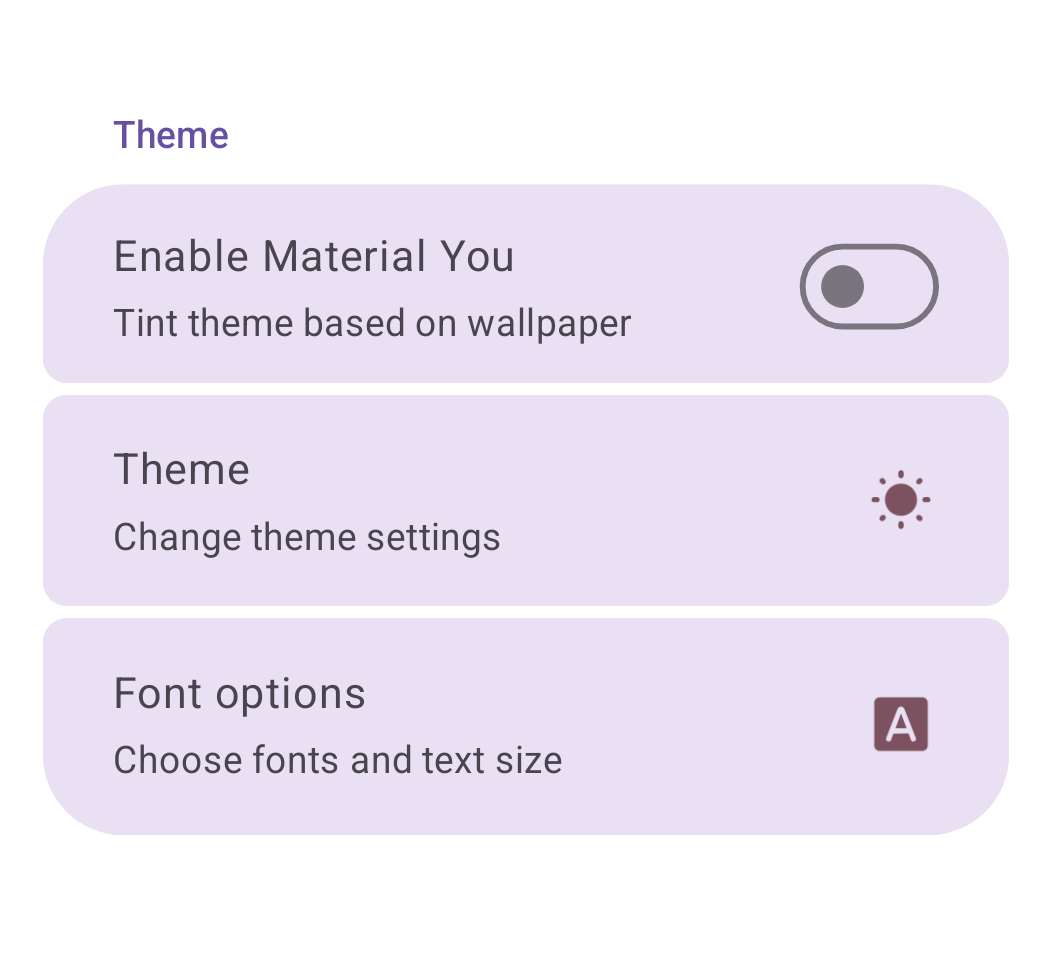
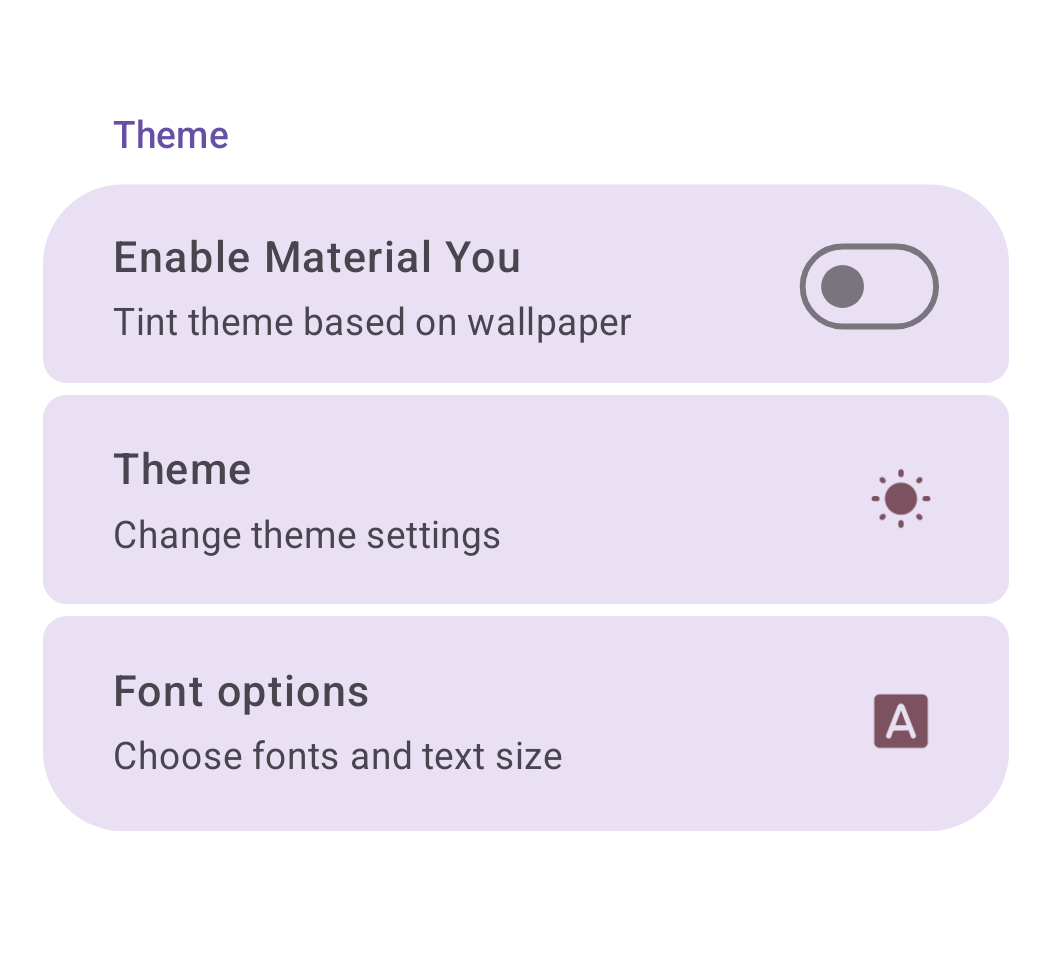
Add license, improve README

diff --git a/src/main/java/com/xaviertobin/bundledui/section/widgets/SectionTitleDescription.kt b/src/main/java/com/xaviertobin/bundledui/section/widgets/SectionTitleDescription.kt
@@ -11,6 +11,7 @@ import androidx.compose.ui.Alignment
 import androidx.compose.ui.Modifier
 import androidx.compose.ui.graphics.Color
 import androidx.compose.ui.graphics.vector.ImageVector
+import androidx.compose.ui.text.font.FontWeight
 import androidx.compose.ui.text.style.TextAlign
 import androidx.compose.ui.unit.Dp
 import androidx.compose.ui.unit.dp
@@ -103,15 +104,17 @@ fun SectionTitleDescription(
                 Text(
                     text = title,
                     style = MaterialTheme.typography.bodyLarge,
+                    fontWeight = FontWeight.Medium,
                     color = textColor,
                     textAlign = TextAlign.Start,
                     modifier = Modifier
-                        .padding(bottom = 3.dp)
+                        .padding(bottom = 2.dp)
                 )
                 description?.let {
                     Text(
                         text = description,
                         style = MaterialTheme.typography.bodyMedium,
+                        fontWeight = FontWeight.Normal,
                         color = textColor,
                         textAlign = TextAlign.Start,
                     )

diff --git a/src/main/java/com/xaviertobin/bundledui/theme/ColorScheme.kt b/src/main/java/com/xaviertobin/bundledui/theme/ColorScheme.kt
@@ -19,12 +19,12 @@ import com.xaviertobin.bundledui.color.dulled
  * Creates a usable Material3 ColorScheme with a neutral dark gray tone
  * If OLED, surface is set to black
  */
-fun defaultDarkColorScheme(isOled: Boolean = false): ColorScheme  {
+fun defaultDarkColorScheme(): ColorScheme {
     return darkColorScheme(
         primary = Color.LightGray,
         secondary = Color.LightGray,
         tertiary = Color.LightGray,
-        surface =  if (isOled) Color.Black else Color.DarkGray.blend(Color.Black, by = 0.7f),
+        surface = Color.DarkGray.blend(Color.Black, by = 0.7f),
         secondaryContainer = Color.DarkGray.blend(Color.Black, by = 0.3f),
         onPrimaryContainer = Color.White.blend(Color.LightGray, by = 0.4f),
         onSecondaryContainer = Color.White.blend(Color.LightGray, by = 0.3f),
@@ -123,10 +123,15 @@ fun colorBasedColorScheme(
     }
 }
 
+fun ColorScheme.oledify(): ColorScheme {
+    return this.copy(
+        surface = Color.Black
+    )
+}
+
 val ColorScheme.text: Color
     @Composable
     get() = MaterialTheme.colorScheme.onSurfaceVariant
-
 
 val ColorScheme.secondaryText: Color
     @Composable

diff --git a/src/main/java/com/xaviertobin/bundledui/section/widgets/SectionHeader.kt b/src/main/java/com/xaviertobin/bundledui/section/widgets/SectionHeader.kt
@@ -7,6 +7,7 @@ import androidx.compose.material3.Text
 import androidx.compose.runtime.Composable
 import androidx.compose.ui.Modifier
 import androidx.compose.ui.res.stringResource
+import androidx.compose.ui.text.font.FontWeight
 import androidx.compose.ui.text.style.TextAlign
 import androidx.compose.ui.unit.dp
 
@@ -26,6 +27,7 @@ fun SectionHeader(
         text = header,
         style = MaterialTheme.typography.labelLarge,
         color = MaterialTheme.colorScheme.primary,
+        fontWeight = FontWeight.Medium,
         textAlign = TextAlign.Start,
     )
 }

diff --git a/README.md b/README.md
@@ -2,19 +2,24 @@
 
 # Bundled UI for Jetpack Compose
 
-A radically simple, idiomatic Material 3 UI design system, built for
+A radically simple, idiomatic Material 3 UI design system for Jetpack Compose,
+built for
 [Bundled Notes](https://play.google.com/store/apps/details?id=com.xaviertobin.noted).
 
 ## Quick look
 
-![Basic italics usage example](images/home_page.png)
+<!-- ![Basic italics usage example](images/home_page.png) -->
+
+<img src="images/home_page.png" width="200" />
+<img src="images/settings.png" width="200" />
+<img src="images/create_bundle.png" width="200" />
 
 ## What's included?
 
 BundledUI is the design system used in Bundled Notes. It includes a whole suite
 of components and utilities that were required to build the app. In summary:
 
-### The `Section`
+#### `Section`
 
 `Section` is the building block component that is found on almost every page of
 BundledUI (and accordingly, Bundled Notes). It is essentially a card that
@@ -61,11 +66,11 @@ Column {
 
 The above code leads to this layout:
 
-![Basic italics usage example](images/sections_basic.png)
+<img src="images/sections_basic.png" alt="Basic italics usage example" width="300" >
 
 > [!INFO] Note that you don't have to think about padding and margins at all
 > when using sections. The `first` and `last` parameters take care of all that
-> for you - you could easily build a settings page, for example, by layout out a
+> for you - you could easily build a settings page, for example, by laying out a
 > few groups of Sections.
 
 ### Benefits

diff --git a/LICENSE.md b/LICENSE.md
@@ -1,0 +1,20 @@
+MIT License
+
+Copyright (c) 2025 Xavier Tobin
+
+Permission is hereby granted, free of charge, to any person obtaining a copy of
+this software and associated documentation files (the "Software"), to deal in
+the Software without restriction, including without limitation the rights to
+use, copy, modify, merge, publish, distribute, sublicense, and/or sell copies of
+the Software, and to permit persons to whom the Software is furnished to do so,
+subject to the following conditions:
+
+The above copyright notice and this permission notice shall be included in all
+copies or substantial portions of the Software.
+
+THE SOFTWARE IS PROVIDED "AS IS", WITHOUT WARRANTY OF ANY KIND, EXPRESS OR
+IMPLIED, INCLUDING BUT NOT LIMITED TO THE WARRANTIES OF MERCHANTABILITY, FITNESS
+FOR A PARTICULAR PURPOSE AND NONINFRINGEMENT. IN NO EVENT SHALL THE AUTHORS OR
+COPYRIGHT HOLDERS BE LIABLE FOR ANY CLAIM, DAMAGES OR OTHER LIABILITY, WHETHER
+IN AN ACTION OF CONTRACT, TORT OR OTHERWISE, ARISING FROM, OUT OF OR IN
+CONNECTION WITH THE SOFTWARE OR THE USE OR OTHER DEALINGS IN THE SOFTWARE.
